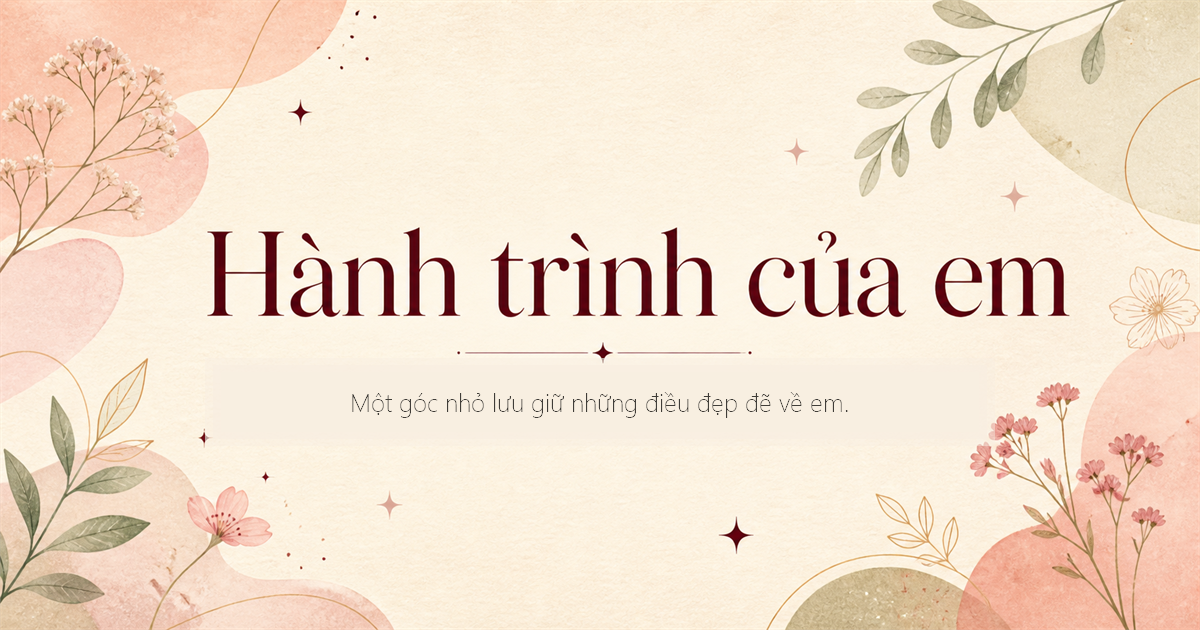
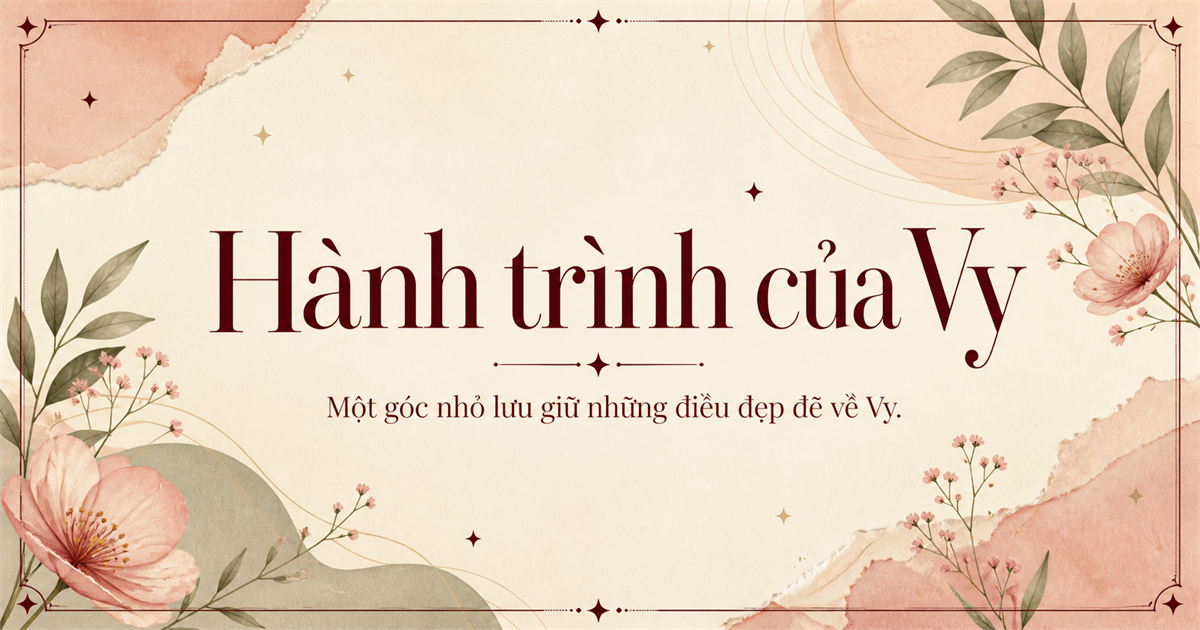
Polish header and personalize copy for Vy

diff --git a/app/page.tsx b/app/page.tsx
@@ -2,7 +2,7 @@ const milestones = [
   { year: '2001', title: 'Một cô gái nhỏ ra đời', text: 'Ngày thế giới bỗng có thêm một người thật đặc biệt.', icon: '✦', media: 'Ảnh tuổi thơ', type: 'ẢNH' },
   { year: '2019', title: 'Bước qua tuổi mười tám', text: 'Mang theo những ước mơ đầu tiên và bắt đầu hành trình của riêng mình.', icon: '☼', media: 'Khoảnh khắc tuổi 18', type: 'VIDEO' },
   { year: '2022', title: 'Chuyến đi đáng nhớ', text: 'Lần đầu chạm vào một vùng đất mới, gom nắng và gió vào ký ức.', icon: '⌁', media: 'Kỷ niệm của chuyến đi', type: 'ẢNH' },
-  { year: '2024', title: 'Ngày mình biết đến em', text: 'Một cột mốc bé thôi, nhưng lại khiến thế giới của ai đó đổi khác.', icon: '♡', media: 'Một đoạn phim rất riêng', type: 'VIDEO' },
+  { year: '2024', title: 'Ngày mình biết đến Vy', text: 'Một cột mốc nhỏ thôi, nhưng lại khiến thế giới của ai đó đổi khác.', icon: '♡', media: 'Một đoạn phim rất riêng', type: 'VIDEO' },
 ];
 
 const friendTrips = [
@@ -15,37 +15,37 @@ export default function Home() {
   return (
     <main>
       <nav className="nav" aria-label="Điều hướng chính">
-        <a className="brand" href="#top">Hành trình của em <span>♡</span></a>
-        <div className="navLinks"><a href="#about">Về em</a><a href="#timeline">Chặng đường</a><a href="#friends">Bạn bè</a></div>
-        <a className="navHeart" href="#letter" aria-label="Đến lời nhắn">♡</a>
+        <a className="brand" href="#top"><span className="brandMark">V</span><span className="brandWords"><small>Một câu chuyện dành riêng cho</small>Hành trình của Vy</span></a>
+        <div className="navLinks"><a href="#about"><span>01</span> Về Vy</a><a href="#timeline"><span>02</span> Chặng đường</a><a href="#friends"><span>03</span> Bạn bè</a></div>
+        <a className="navHeart" href="#letter" aria-label="Đến lời nhắn dành cho Vy"><span>Gửi Vy</span> ♡</a>
       </nav>
 
       <section className="hero" id="top">
         <div className="heroOrb orbOne" /><div className="heroOrb orbTwo" />
-        <p className="eyebrow">Một nơi nhỏ dành riêng cho</p>
-        <h1>cô gái mang nắng<br />vào những ngày thường.</h1>
+        <p className="eyebrow">Một nơi nhỏ dành riêng cho Vy</p>
+        <h1>cô gái mang nắng<br />vào những ngày bình thường.</h1>
         <p className="heroText">Có những người ta gặp không phải để lướt qua,<br className="desktop" /> mà để âm thầm ghi nhớ từng điều bé xíu.</p>
         <a className="scrollCue" href="#about"><span>Khám phá câu chuyện</span><b>↓</b></a>
         <div className="doodle starA">✦</div><div className="doodle starB">✧</div>
       </section>
 
       <section className="about section" id="about">
-        <div className="sectionLabel"><span>01</span> VỀ EM</div>
-        <div className="portraitCard" aria-label="Vị trí dành cho ảnh chân dung"><div className="portraitGlow" /><div className="flower">❀</div><p>Ảnh của cô ấy</p><small>Thay bằng ảnh chân dung tại đây</small></div>
+        <div className="sectionLabel"><span>01</span> VỀ VY</div>
+        <div className="portraitCard" aria-label="Vị trí dành cho ảnh chân dung của Vy"><div className="portraitGlow" /><div className="flower">❀</div><p>Ảnh của Vy</p><small>Thay bằng ảnh chân dung tại đây</small></div>
         <div className="aboutCopy">
-          <p className="script">Nếu phải kể về em...</p><h2>Em là một bản nhạc<br />dịu dàng giữa thành phố vội.</h2>
+          <p className="script">Nếu phải kể về Vy...</p><h2>Vy là một bản nhạc<br />dịu dàng giữa thành phố vội.</h2>
           <dl className="profileFacts">
-            <div><dt>Họ và tên</dt><dd>Tên của cô ấy</dd></div>
+            <div><dt>Họ và tên</dt><dd>Tên đầy đủ của Vy</dd></div>
             <div><dt>Tuổi</dt><dd>00 tuổi</dd></div>
-            <div><dt>Công việc</dt><dd>Công việc của cô ấy</dd></div>
+            <div><dt>Công việc</dt><dd>Công việc của Vy</dd></div>
           </dl>
-          <p>Có một cô gái yêu những buổi chiều có gió, thích nhâm nhi ly cà phê thật lâu và luôn mỉm cười khi nhìn thấy hoa nở. Chỉ cần là chính em, đã đủ khiến một ngày trở nên đáng nhớ.</p>
+          <p>Vy yêu những buổi chiều có gió, thích nhâm nhi một ly cà phê thật lâu và luôn mỉm cười khi nhìn thấy hoa nở. Chỉ cần Vy là chính mình cũng đã đủ khiến một ngày trở nên đáng nhớ.</p>
           <div className="traits"><span>☕ Cà phê sữa</span><span>☁ Những ngày mưa</span><span>♫ Nhạc dịu dàng</span><span>✿ Hoa cúc trắng</span></div>
         </div>
       </section>
 
       <section className="timelineSection" id="timeline">
-        <div className="sectionHead"><div className="sectionLabel light"><span>02</span> NHỮNG CHẶNG ĐƯỜNG</div><h2>Mỗi chặng đường<br /><i>đều làm nên em hôm nay.</i></h2></div>
+        <div className="sectionHead"><div className="sectionLabel light"><span>02</span> NHỮNG CHẶNG ĐƯỜNG</div><h2>Mỗi chặng đường<br /><i>đều làm nên Vy của hôm nay.</i></h2></div>
         <div className="timeline">{milestones.map((item, index) => (
           <article className={`milestone ${index % 2 ? 'right' : ''}`} key={item.year}>
             <div className="milestoneIcon">{item.icon}</div>
@@ -67,7 +67,7 @@ export default function Home() {
         ))}</div>
       </section>
 
-      <section className="letter" id="letter"><div className="letterPaper"><span className="tape" /><p className="script">Gửi em,</p><h2>Cảm ơn em vì đã xuất hiện.</h2><p>Có thể em chưa từng biết, nhưng sự hiện diện của em đã khiến rất nhiều khoảnh khắc bình thường trở nên có ý nghĩa. Trang nhỏ này chỉ là cách ai đó muốn lưu lại những điều đẹp đẽ về em.</p><p className="signature">— Từ một người luôn âm thầm dõi theo em ♡</p></div></section>
+      <section className="letter" id="letter"><div className="letterPaper"><span className="tape" /><p className="script">Gửi Vy,</p><h2>Cảm ơn Vy vì đã xuất hiện.</h2><p>Có thể Vy chưa từng biết, nhưng sự hiện diện của Vy đã khiến rất nhiều khoảnh khắc bình thường trở nên có ý nghĩa. Trang nhỏ này chỉ là cách một người muốn lưu lại những điều đẹp đẽ về Vy.</p><p className="signature">— Từ một người luôn âm thầm dõi theo Vy ♡</p></div></section>
       <footer><p>Được tạo bằng tất cả sự chân thành</p><span>✦ 2026 ✦</span></footer>
     </main>
   );

diff --git a/app/globals.css b/app/globals.css
@@ -18,3 +18,11 @@
 
 @media(max-width:900px){.tripGrid{grid-template-columns:1fr 1fr}.tripCard:nth-child(2){margin-top:0}.tripCard:last-child{grid-column:1/-1;max-width:50%;margin:auto}}
 @media(max-width:800px){.milestoneMedia{height:175px}.friends{padding:90px 24px}.tripGrid{grid-template-columns:1fr}.tripCard:last-child{grid-column:auto;max-width:none}.tripMedia{height:230px}.profileFacts div{grid-template-columns:95px 1fr}}
+
+/* Header nổi */
+.nav{position:fixed;top:18px;left:50%;transform:translateX(-50%);width:min(1180px,calc(100% - 36px));height:72px;padding:0 14px 0 18px;border:1px solid rgba(115,60,70,.14);border-radius:20px;background:rgba(255,250,242,.82);box-shadow:0 14px 50px rgba(61,45,42,.10);backdrop-filter:blur(18px);-webkit-backdrop-filter:blur(18px);grid-template-columns:1fr auto 1fr}
+.brand{display:flex;align-items:center;gap:11px;font-style:normal}.brandMark{width:42px;height:42px;border-radius:14px;display:grid;place-items:center;background:var(--wine);color:#fffaf2;font-size:22px;font-style:italic;box-shadow:0 7px 18px rgba(115,60,70,.24)}.brandWords{display:flex;flex-direction:column;font-size:16px;line-height:1.05}.brandWords small{font:700 8px Arial,sans-serif;letter-spacing:.15em;text-transform:uppercase;color:#9b7c72;margin-bottom:5px}
+.navLinks{gap:5px;padding:5px;border-radius:14px;background:rgba(115,60,70,.055)}.navLinks a{display:flex;align-items:center;gap:6px;padding:10px 13px;border-radius:10px;font-size:12px;transition:background .2s ease,color .2s ease,opacity .2s ease}.navLinks a span{font-size:8px;color:#a78b81}.navLinks a:hover,.navLinks a:focus-visible{opacity:1;background:#fffaf3;color:var(--wine);outline:none}.navHeart{width:auto;height:42px;padding:0 15px;gap:7px;border:0;border-radius:13px;background:#29333a;color:#fffaf0;font:700 10px Arial,sans-serif;letter-spacing:.12em;text-transform:uppercase;transition:transform .2s ease,background .2s ease}.navHeart:hover{transform:translateY(-2px);background:var(--wine)}.navHeart span{display:inline}
+.hero{padding-top:150px}
+@media(max-width:980px){.nav{grid-template-columns:1fr auto}.navLinks{display:none}}
+@media(max-width:560px){.nav{top:10px;width:calc(100% - 20px);height:64px;border-radius:17px;padding:0 10px}.brandMark{width:38px;height:38px;border-radius:12px}.brandWords{font-size:14px}.brandWords small{display:none}.navHeart{width:40px;height:40px;padding:0;display:grid;place-items:center}.navHeart span{display:none}.hero{padding-top:120px}}

diff --git a/app/layout.tsx b/app/layout.tsx
@@ -2,17 +2,17 @@ import type { Metadata } from 'next';
 import './globals.css';
 
 export const metadata: Metadata = {
-  title: 'Hành trình của em',
-  description: 'Một góc nhỏ lưu giữ những câu chuyện, cột mốc và hành trình đáng nhớ của em.',
+  title: 'Hành trình của Vy',
+  description: 'Một góc nhỏ lưu giữ những câu chuyện, cột mốc và hành trình đáng nhớ của Vy.',
   openGraph: {
-    title: 'Hành trình của em',
-    description: 'Một góc nhỏ lưu giữ những điều đẹp đẽ về em.',
-    images: [{ url: '/og.png', width: 1200, height: 630, alt: 'Hành trình của em' }],
+    title: 'Hành trình của Vy',
+    description: 'Một góc nhỏ lưu giữ những điều đẹp đẽ về Vy.',
+    images: [{ url: '/og.png', width: 1200, height: 630, alt: 'Hành trình của Vy' }],
   },
   twitter: {
     card: 'summary_large_image',
-    title: 'Hành trình của em',
-    description: 'Một góc nhỏ lưu giữ những điều đẹp đẽ về em.',
+    title: 'Hành trình của Vy',
+    description: 'Một góc nhỏ lưu giữ những điều đẹp đẽ về Vy.',
     images: ['/og.png'],
   },
 };
